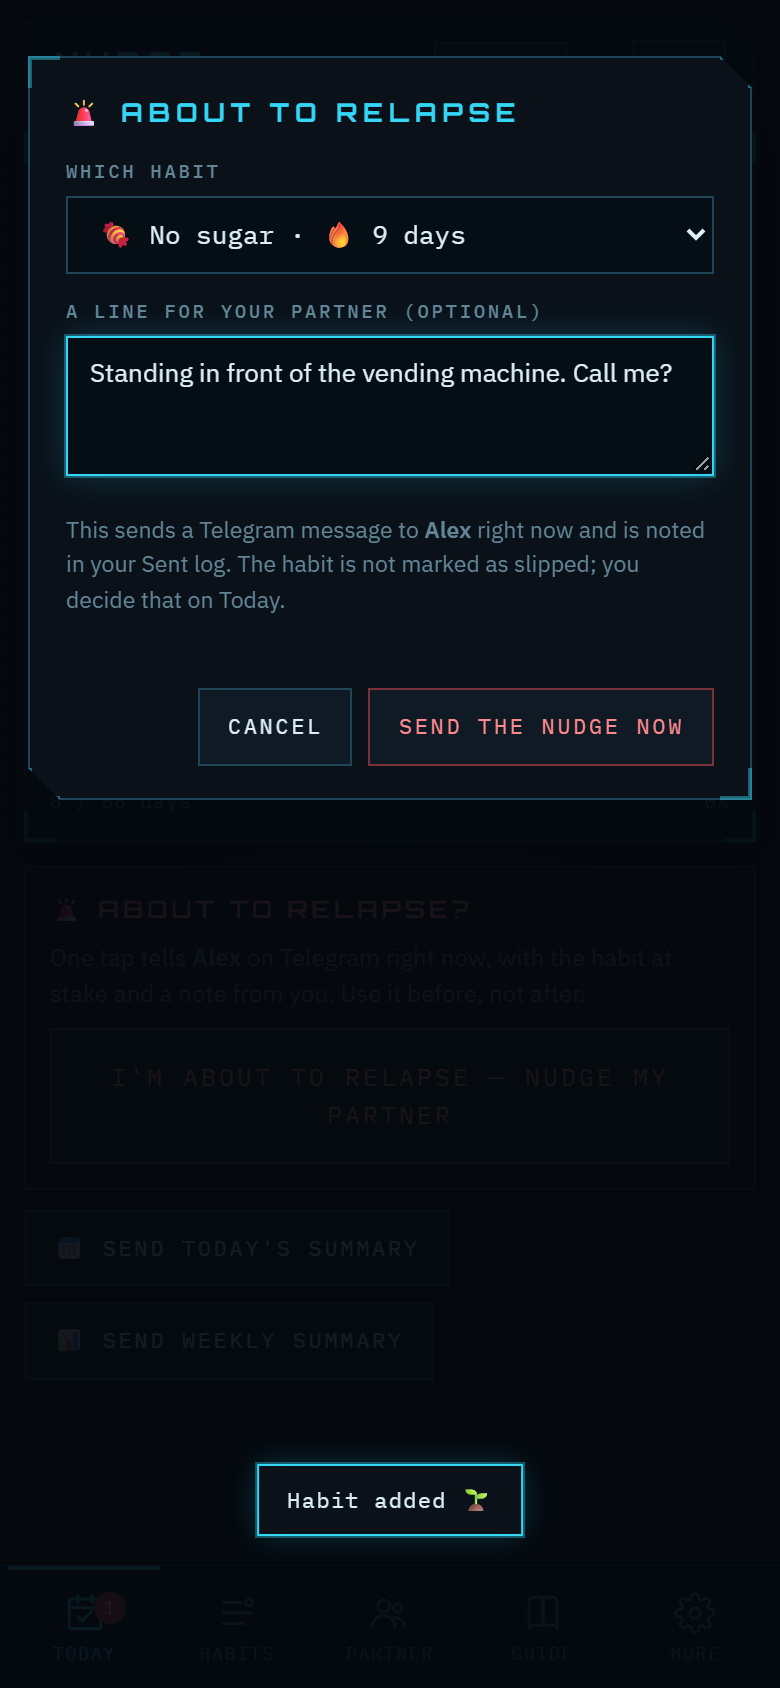
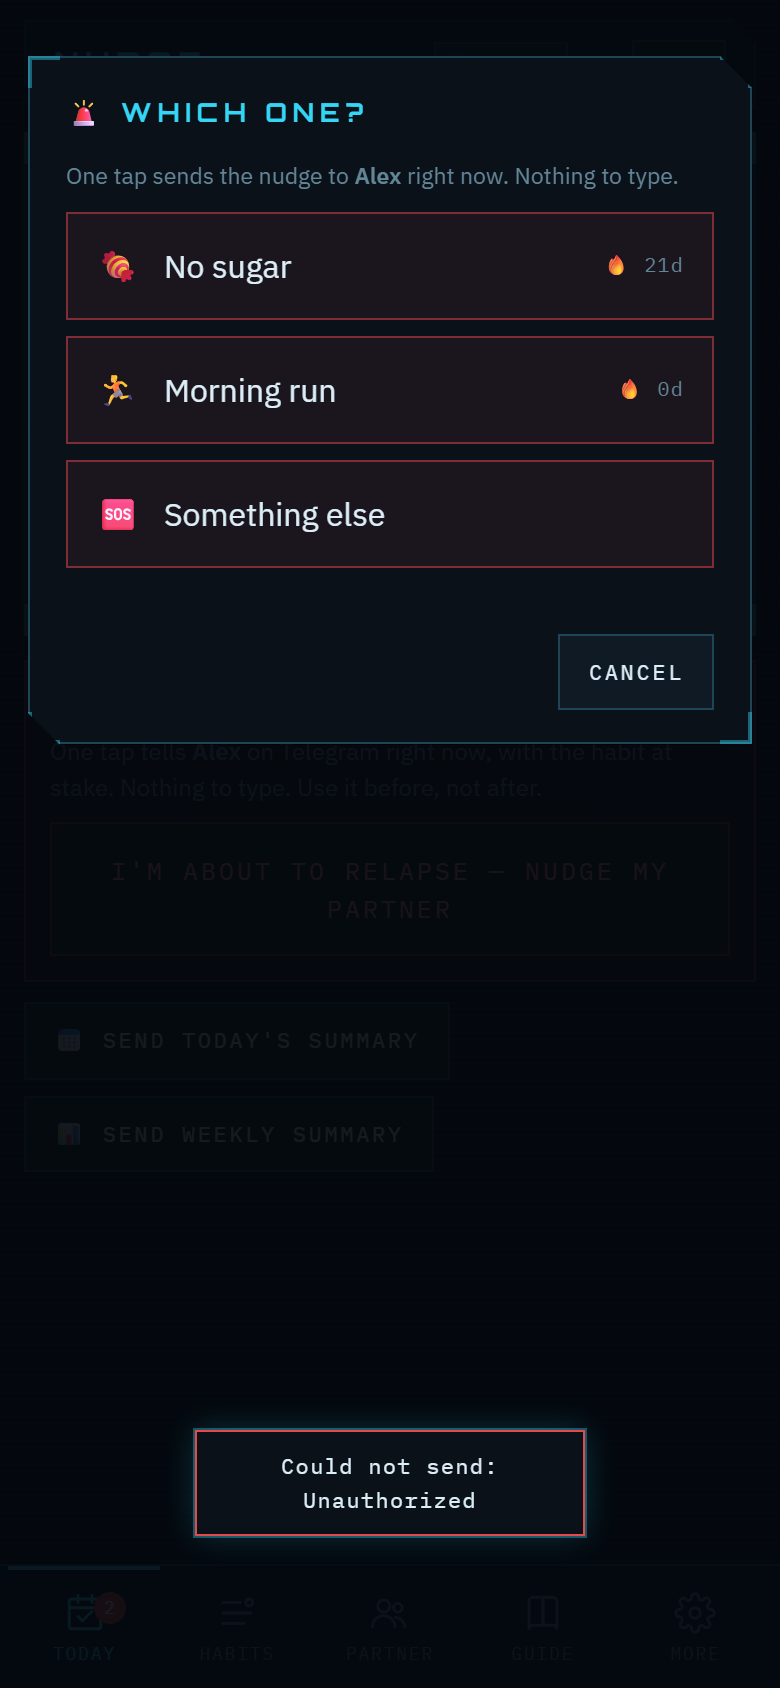
Relapse nudge is one tap: no message to type
With a single habit the red button sends immediately; with several, a
one-tap picker of the habit at stake. The message carries the habit, its
streak and "reach out now".

diff --git a/index.html b/index.html
@@ -114,6 +114,10 @@ p.note{font-size:12px;color:var(--ink3);line-height:1.5;margin:6px 0}
 .yn button.on.no{background:rgba(229,72,77,.16);border-color:var(--crit);box-shadow:0 0 0 1px rgba(229,72,77,.3),0 0 12px rgba(229,72,77,.3)}
 .sos{margin:12px 0 0;padding:12px;border:1px solid rgba(229,72,77,.45);background:rgba(229,72,77,.06)}
 .sos .t{font-family:"Orbitron",monospace;font-size:12px;letter-spacing:.18em;color:#ff8a8e;margin-bottom:6px}
+.soslist{display:flex;flex-direction:column;gap:8px}
+.soslist button{display:flex;align-items:center;gap:12px;padding:14px;border:1px solid rgba(229,72,77,.5);background:rgba(229,72,77,.08);font-size:16px;color:var(--ink);text-align:left}
+.soslist button:hover{border-color:var(--crit);box-shadow:0 0 0 1px rgba(229,72,77,.3),0 0 12px rgba(229,72,77,.3)}
+.soslist button small{margin-left:auto;font-family:"IBM Plex Mono",monospace;font-size:10px;color:var(--ink3);letter-spacing:.06em}
 .actions{display:flex;gap:8px;flex-wrap:wrap;margin-top:10px}
 
 /* ---------- habits tab ---------- */
@@ -243,7 +247,7 @@ p.note{font-size:12px;color:var(--ink3);line-height:1.5;margin:6px 0}
     </div>
     <div class="sos" id="sosBox">
       <div class="t">🚨 ABOUT TO RELAPSE?</div>
-      <p class="note" style="margin:0 0 8px">One tap tells <b id="sosPartner">your partner</b> on Telegram right now, with the habit at stake and a note from you. Use it before, not after.</p>
+      <p class="note" style="margin:0 0 8px">One tap tells <b id="sosPartner">your partner</b> on Telegram right now, with the habit at stake. Nothing to type. Use it before, not after.</p>
       <button class="btn danger block big" id="sosBtn">I'M ABOUT TO RELAPSE &mdash; NUDGE MY PARTNER</button>
     </div>
     <div class="actions">
@@ -308,7 +312,7 @@ p.note{font-size:12px;color:var(--ink3);line-height:1.5;margin:6px 0}
     <div class="panel guide"><i class="br"></i>
       <div class="pb">
         <h3>WHAT NUDGE IS</h3>
-        <p>Two people keep each other honest. Each of you tracks habits to <b>build</b> (do it every day) and habits to <b>break</b> (stay clean every day), as daily yes/no streaks with a progress bar toward a target. Your partner gets your daily and weekly summaries on Telegram, and a nudge the moment you press <b>About to relapse</b>.</p>
+        <p>Two people keep each other honest. Each of you tracks habits to <b>build</b> (do it every day) and habits to <b>break</b> (stay clean every day), as daily yes/no streaks with a progress bar toward a target. Your partner gets your daily and weekly summaries on Telegram, and a nudge the moment you press <b>About to relapse</b>, one tap, nothing to type.</p>
         <p>There is no account and no server. Everything you type is encrypted in this browser with your passkey. The only thing that ever leaves the browser is a message you asked to send, straight to Telegram.</p>
 
         <h3>1 · SET UP THE APP</h3>
@@ -350,7 +354,7 @@ p.note{font-size:12px;color:var(--ink3);line-height:1.5;margin:6px 0}
         <ol>
           <li><b>Daily summary</b>: once you have marked every habit for the day (automatic if enabled, or the button on Today).</li>
           <li><b>Weekly summary</b>: days done per habit, streaks and bests for the week that ended (automatic on your first visit in a new week, or the button).</li>
-          <li><b>Relapse nudge</b>: the red button, immediately, with the habit at stake and your note. Agree with your partner what they do when it arrives: call, reply, meet.</li>
+          <li><b>Relapse nudge</b>: the red button, immediately, with the habit at stake and its streak. No typing: with one habit it sends on the spot, with several you tap the one at stake. Agree with your partner what they do when it arrives: call, reply, meet.</li>
         </ol>
 
         <h3>5 · TROUBLESHOOTING</h3>
@@ -418,12 +422,11 @@ p.note{font-size:12px;color:var(--ink3);line-height:1.5;margin:6px 0}
 
 <div class="scrim" id="sosModal" hidden>
   <div class="card panel"><i class="br"></i>
-    <h2>🚨 ABOUT TO RELAPSE</h2>
-    <div class="field"><label class="k" for="sosHabit">Which habit</label><select id="sosHabit"></select></div>
-    <div class="field"><label class="k" for="sosNote">A line for your partner (optional)</label><textarea id="sosNote" maxlength="400" placeholder="Where you are, what's going on, what would help."></textarea></div>
-    <p class="hint">This sends a Telegram message to <b id="sosTo">your partner</b> right now and is noted in your Sent log. The habit is not marked as slipped; you decide that on Today.</p>
+    <h2>🚨 WHICH ONE?</h2>
+    <p class="hint" style="margin:0 0 10px">One tap sends the nudge to <b id="sosTo">your partner</b> right now. Nothing to type.</p>
+    <div class="soslist" id="sosList"></div>
     <div class="formerr" id="sosErr"></div>
-    <div class="cardbtns"><button class="btn" id="sosCancel">Cancel</button><button class="btn danger" id="sosSend">Send the nudge now</button></div>
+    <div class="cardbtns"><button class="btn" id="sosCancel">Cancel</button></div>
   </div>
 </div>
 
@@ -814,22 +817,25 @@ $('sendWeeklyBtn').addEventListener('click', () => sendWeekly(0, false));
 
 /* ---------- relapse nudge ---------- */
 const sosM = $('sosModal');
+let sosBusy = false;
+async function sendSos(h){                   // no typing: the habit at stake, the streak, "reach out now"
+  if (sosBusy) return; sosBusy = true;
+  const text = [`🚨 ${me()} is about to relapse${h ? `: ${h.emoji || ''} ${h.name}` : ''}`, h ? `Streak at stake: 🔥 ${streak(h)} days (target ${h.target}).` : '', 'Reach out now 🙏'].filter(Boolean).join('\n');
+  $('sosBtn').disabled = true; $('sosBtn').textContent = 'SENDING…';
+  try { await sendToPartner('sos', text); sosM.hidden = true; toast(`Sent. ${S.partner.name || 'Your partner'} has it. Hold on. 💙`); }
+  catch (e) { $('sosErr').textContent = 'Could not send: ' + e.message; toast('Could not send: ' + e.message, true); }
+  finally { sosBusy = false; $('sosBtn').textContent = "I'M ABOUT TO RELAPSE — NUDGE MY PARTNER"; renderToday(); }
+}
 $('sosBtn').addEventListener('click', () => {
-  const sel = $('sosHabit'); const hs = S.habits.filter(h => h.type === 'break').concat(S.habits.filter(h => h.type === 'build'));
-  sel.innerHTML = hs.map(h => `<option value="${h.id}">${esc((h.emoji || '') + ' ' + h.name)} · 🔥 ${streak(h)} days</option>`).join('') + `<option value="">(something else)</option>`;
-  $('sosNote').value = ''; $('sosErr').textContent = ''; $('sosTo').textContent = S.partner.name || 'your partner'; sosM.hidden = false; $('sosNote').focus();
+  const hs = S.habits.filter(h => h.type === 'break').concat(S.habits.filter(h => h.type === 'build'));
+  if (hs.length <= 1) return sendSos(hs[0] || null);                     // one habit (or none): send straight away
+  $('sosList').innerHTML = hs.map(h => `<button type="button" data-id="${h.id}"><span>${esc(h.emoji || (h.type === 'break' ? '🧊' : '🌱'))}</span><span>${esc(h.name)}</span><small>🔥 ${streak(h)}d</small></button>`).join('')
+    + `<button type="button" data-id=""><span>🆘</span><span>Something else</span></button>`;
+  $('sosErr').textContent = ''; $('sosTo').textContent = S.partner.name || 'your partner'; sosM.hidden = false;
 });
+$('sosList').addEventListener('click', e => { const b = e.target.closest('[data-id]'); if (b) sendSos(S.habits.find(x => x.id === b.dataset.id) || null); });
 $('sosCancel').addEventListener('click', () => sosM.hidden = true);
 sosM.addEventListener('click', e => { if (e.target === sosM) sosM.hidden = true; });
-$('sosSend').addEventListener('click', async () => {
-  const h = S.habits.find(x => x.id === $('sosHabit').value), note = $('sosNote').value.trim();
-  const text = [`🚨 ${me()} is about to relapse${h ? `: ${h.emoji || ''} ${h.name}` : ''}`, h ? `Streak at stake: 🔥 ${streak(h)} days (target ${h.target}).` : '', note ? `"${note}"` : '', 'Reach out now 🙏'].filter(Boolean).join('\n');
-  $('sosSend').disabled = true;
-  try { await sendToPartner('sos', text); sosM.hidden = true; toast(`Sent. ${S.partner.name || 'Your partner'} has it. Hold on. 💙`); }
-  catch (e) { $('sosErr').textContent = 'Could not send: ' + e.message; }
-  finally { $('sosSend').disabled = false; }
-});
-
 /* ---------- partner tab ---------- */
 function renderPartner(){
   const hasBot = !!S.bot.token, linked = hasBot && !!S.partner.chatId;

diff --git a/sw.js b/sw.js
@@ -1,6 +1,6 @@
 /* Nudge service worker: the app shell works offline. Cache-first for the shell files,
    network for everything else (Telegram calls are never cached). Bump CACHE on release. */
-const CACHE = "nudge-v2";
+const CACHE = "nudge-v3";
 const SHELL = ["./", "./index.html", "./manifest.webmanifest", "./icon.svg", "./icon-192.png", "./icon-512.png"];
 
 self.addEventListener("install", (e) => {

diff --git a/README.md b/README.md
@@ -20,7 +20,7 @@ shows how).
 
 ![A habit's history: 12 weeks, tap a day to correct it](screenshots/04-habit-detail.png)
 
-![About to relapse: pick the habit, add a line, nudge your partner now](screenshots/05-relapse-nudge.png)
+![About to relapse: one tap on the habit at stake, nothing to type](screenshots/05-relapse-nudge.png)
 
 ![Partner tab: your bot token, find your partner, test, what gets sent](screenshots/06-partner.png)
 
@@ -52,7 +52,8 @@ in the test run is fake, and Telegram answered it with "Unauthorized", which is 
   to your partner's Telegram:
   - a **daily summary** once every habit is marked (automatic, or the button),
   - a **weekly summary** on your first visit in a new week (automatic, or the button),
-  - a **relapse nudge** the moment you press the red button, with the habit at stake and your note.
+  - a **relapse nudge** the moment you press the red button, with the habit at stake and its
+    streak. Nothing to type: one habit sends on the spot, several means one tap on the one at stake.
   Tokens are never shared and nothing passes through a third server. You keep talking in your
   normal Telegram chat; the bots only deliver notifications. Both directions work the same way
   with the partner's own bot.
